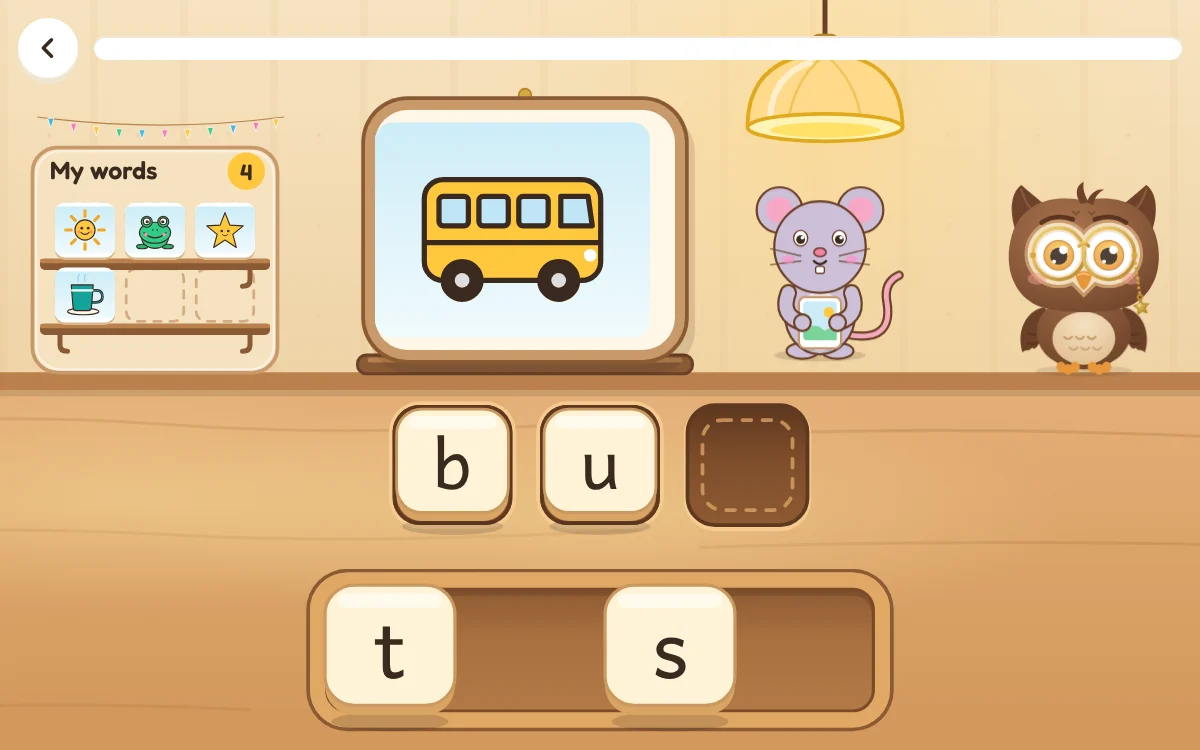
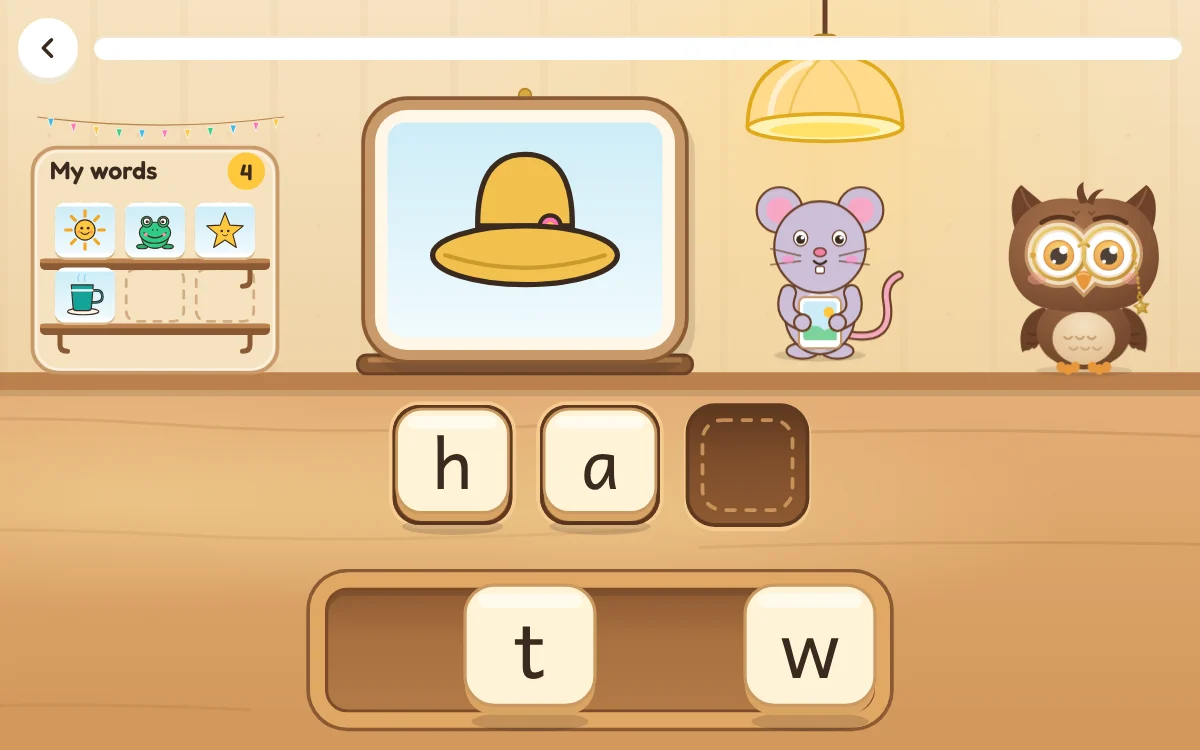
Sync Letter Workshop 7b99af9 (picture centered in its frame), log the fix

diff --git a/public/play/word-building-grade-1/assets/index-hgKHa2a3.css b/public/play/word-building-grade-1/assets/index-hgKHa2a3.css
@@ -1,0 +1,1 @@
+@font-face{font-family:Fredoka;font-style:normal;font-weight:600;font-display:swap;src:url(./fredoka-600-C4zohCW5.woff2)format("woff2")}@font-face{font-family:Andika;font-style:normal;font-weight:400;font-display:swap;src:url(./andika-400-BTFTIZb-.woff2)format("woff2")}:root{--ell-teal:#0f857d;--ell-teal-dark:#0a625c;--ell-teal-bright:#14a39a;--ell-teal-soft:#e3f6f3;--ell-sun:#ffc83d;--ell-sun-dark:#e5a800;--ell-leaf:#2fcb86;--ell-leaf-dark:#1fa56a;--ell-sky:#2fb5ec;--ell-pink:#ff6fb5;--ell-orange:#ff9f43;--ell-cocoa:#8b5a3c;--ell-caramel:#c8996a;--ell-ink:#3b2a20;--ell-ink-soft:#7a6252;--ell-cream:#fff7e8;--ell-card:#fff;--ell-line:#f0e6d2;--ell-hill:#bfefd5;--ell-r-sm:16px;--ell-r-md:24px;--ell-r-lg:32px;--ell-r-pill:999px;--ell-press:0 6px 0;--ell-shadow:0 10px 30px #3b2a201a;--ell-spring:cubic-bezier(.34, 1.56, .64, 1);--ell-font-display:"Fredoka", ui-rounded, "Arial Rounded MT Bold", system-ui, sans-serif;--ell-font-read:"Andika", system-ui, sans-serif}*{box-sizing:border-box}html,body{height:100%;margin:0}body{background:var(--ell-cream);color:var(--ell-ink);font-family:var(--ell-font-read);-webkit-tap-highlight-color:transparent;overscroll-behavior:none;-webkit-user-select:none;user-select:none}button{font:inherit;color:inherit;cursor:pointer;touch-action:manipulation}:focus-visible{outline:4px solid var(--ell-sky);outline-offset:3px}.ell-app{background:radial-gradient(circle at 15% 10%,#fffdf6 0,#fff3da 60%,#ffe9c2 100%);position:fixed;top:0;bottom:0;left:0;right:0;overflow:clip}.ell-app:after{content:"";background:var(--ell-hill);z-index:0;border-radius:50%;height:30vh;position:absolute;bottom:-14vh;left:-10%;right:-10%}.ell-screen{z-index:1;flex-direction:column;display:flex;position:absolute;top:0;bottom:0;left:0;right:0;overflow:clip}.ell-screen[hidden]{display:none}.ell-fx{pointer-events:none;z-index:5;position:absolute;top:0;bottom:0;left:0;right:0;overflow:clip}.ell-confetti{display:block;position:absolute}.ell-btn{border-radius:var(--ell-r-pill);min-height:64px;font:600 clamp(24px, 4.2vmin, 34px) var(--ell-font-display);transition:transform .25s var(--ell-spring), box-shadow .15s;border:0;padding:.55em 1.4em}.ell-btn:active{transform:translateY(4px)scale(.97)}.ell-btn--primary{background:var(--ell-teal);color:#fff;box-shadow:var(--ell-press) var(--ell-teal-dark)}.ell-btn--sun{background:var(--ell-sun);color:var(--ell-ink);box-shadow:var(--ell-press) var(--ell-sun-dark)}.ell-btn--plain{background:var(--ell-card);color:var(--ell-ink);box-shadow:var(--ell-press) var(--ell-line)}.ell-btn--primary:active,.ell-btn--sun:active,.ell-btn--plain:active{box-shadow:0 2px 0 var(--ell-line)}.ell-iconbtn{border-radius:var(--ell-r-pill);background:var(--ell-card);width:60px;height:60px;box-shadow:var(--ell-press) var(--ell-line);transition:transform .25s var(--ell-spring);border:0;flex:none;place-items:center;display:grid}.ell-iconbtn:active{box-shadow:0 2px 0 var(--ell-line);transform:translateY(4px)}.ell-iconbtn svg{width:28px;height:28px}.ell-start{text-align:center;justify-content:center;align-items:center;gap:clamp(12px,3vmin,28px);padding:24px}.ell-title{font:600 clamp(28px, 6vmin, 52px) var(--ell-font-display);color:var(--ell-teal);margin:0}.ell-top{align-items:center;gap:16px;padding:clamp(10px,2.4vmin,20px);display:flex}.ell-progress{background:var(--ell-card);border-radius:var(--ell-r-pill);height:24px;box-shadow:inset 0 2px 0 var(--ell-line);flex:1;padding:5px}.ell-progress>span{border-radius:var(--ell-r-pill);background:linear-gradient(90deg, var(--ell-leaf), #6be3a9);width:0;height:100%;transition:width .5s var(--ell-spring);display:block}.ell-stage{flex:1;justify-content:center;align-items:center;min-height:0;padding:0 16px;display:flex}.ell-card{background:var(--ell-card);border-radius:var(--ell-r-lg);box-shadow:var(--ell-shadow);text-align:center;min-width:min(80vw,320px);padding:clamp(14px,3vmin,28px) clamp(24px,5vmin,48px)}.ell-prompt{font:600 clamp(56px, 13vmin, 112px)/1 var(--ell-font-display);letter-spacing:.02em}.ell-dots{flex-wrap:wrap;justify-content:center;gap:clamp(10px,2.4vmin,22px);margin-top:clamp(8px,2vmin,16px);display:flex}.ell-dots>div{grid-template-columns:repeat(5,auto);gap:6px;display:grid}.ell-dots i{aspect-ratio:1;background:var(--ell-sky);border-radius:50%;width:clamp(12px,2.4vmin,20px);display:block}.ell-dots>div+div i{background:var(--ell-pink)}.ell-dots.is-hint i{animation:ell-dot-hint .6s var(--ell-spring) both}@keyframes ell-dot-hint{50%{transform:scale(1.35)}}.ell-bottom{justify-content:center;align-items:flex-end;gap:clamp(12px,3vmin,32px);padding:8px 16px clamp(16px,4vmin,40px);display:flex}.ell-helper{align-items:flex-end;display:flex;position:relative}.ell-bubble{white-space:nowrap;background:var(--ell-card);border-radius:var(--ell-r-md);box-shadow:var(--ell-shadow);font:600 clamp(18px, 3.2vmin, 26px) var(--ell-font-display);color:var(--ell-teal);opacity:0;transition:opacity .2s, transform .3s var(--ell-spring);padding:8px 16px;position:absolute;bottom:92%;left:70%;transform:translateY(6px)scale(.9)}.ell-bubble.is-on{opacity:1;transform:none}.ell-choices{gap:clamp(12px,2.6vmin,22px);display:flex}.ell-choice{border-radius:var(--ell-r-md);background:var(--ell-card);width:clamp(88px,16vmin,132px);height:clamp(84px,15vmin,120px);box-shadow:var(--ell-press) var(--ell-line), 0 12px 20px #3b2a2014;font:600 clamp(40px, 8vmin, 64px) var(--ell-font-display);transition:transform .25s var(--ell-spring), opacity .2s;border:0}.ell-choice:active{transform:translateY(4px)}.ell-choice.is-right{background:var(--ell-leaf);color:#fff;box-shadow:var(--ell-press) var(--ell-leaf-dark)}.ell-choice.is-tried{opacity:.4}.ell-choice:disabled{cursor:default}.ell-end{text-align:center;justify-content:center;align-items:center;gap:clamp(8px,2vmin,18px);padding:24px}.ell-stars{align-items:flex-end;gap:10px;display:flex}.ell-stars svg{width:clamp(64px,12vmin,96px);filter:drop-shadow(0 5px 0 var(--ell-sun-dark))}.ell-stars svg:nth-child(2){transform:translateY(-14%)scale(1.15)}.ell-stars .is-empty{filter:none;opacity:.35}.ell-end-actions{flex-wrap:wrap;justify-content:center;gap:16px;display:flex}@media (orientation:portrait){.ell-bottom{flex-direction:column;align-items:center}.ell-helper{align-self:flex-start;margin-left:4vw}}.ell-hazel{flex:none}.ell-hazel svg{width:100%;height:auto;display:block;overflow:visible}.ell-hazel--sm{width:clamp(84px,16vmin,140px)}.ell-hazel--md{width:clamp(110px,22vmin,190px)}.ell-hazel--lg{width:clamp(150px,36vmin,280px)}.ell-hazel .part,.ell-hazel #eyes-happy{transition:transform .35s var(--ell-spring), opacity .2s}.ell-hazel #body-group{animation:3s ease-in-out infinite ell-breathe}.ell-hazel #eye-left,.ell-hazel #eye-right{animation:4.6s infinite ell-blink}.ell-hazel #charm{animation:2.6s ease-in-out infinite ell-sway}.ell-hazel #tuft-right{animation:5.2s ease-in-out infinite ell-wiggle}@keyframes ell-breathe{50%{transform:scale(1.02,.985)}}@keyframes ell-blink{0%,92%,to{transform:scaleY(1)}95%{transform:scaleY(.08)}}@keyframes ell-sway{50%{transform:rotate(-9deg)}}@keyframes ell-wiggle{0%,80%,to{transform:rotate(0)}85%{transform:rotate(-12deg)}90%{transform:rotate(6deg)}}.ell-hazel.is-happy #eye-left,.ell-hazel.is-happy #eye-right{opacity:0}.ell-hazel.is-happy #eyes-happy{opacity:1}.ell-hazel.is-happy #wing-left{transform:rotate(55deg)}.ell-hazel.is-happy #wing-right{transform:rotate(-55deg)}.ell-hazel.is-happy #hazel{transform:translateY(-8%)}.ell-hazel.is-happy #brow-left,.ell-hazel.is-happy #brow-right{transform:translateY(-5px)}.ell-hazel.is-cheer #eye-left,.ell-hazel.is-cheer #eye-right{opacity:0}.ell-hazel.is-cheer #eyes-happy{opacity:1}.ell-hazel.is-cheer #wing-left{animation:.5s ease-in-out infinite alternate ell-flap-l}.ell-hazel.is-cheer #wing-right{animation:.5s ease-in-out infinite alternate ell-flap-r}.ell-hazel.is-cheer #hazel{animation:ell-hop .9s var(--ell-spring) infinite}@keyframes ell-flap-l{0%{transform:rotate(30deg)}to{transform:rotate(75deg)}}@keyframes ell-flap-r{0%{transform:rotate(-30deg)}to{transform:rotate(-75deg)}}@keyframes ell-hop{0%,to{transform:translateY(0)}40%{transform:translateY(-9%)}}.ell-hazel.is-thinking #head{transform:rotate(-8deg)}.ell-hazel.is-thinking .look{transform:translate(-4px,-6px)}.ell-hazel.is-thinking #brow-left{transform:translateY(-6px)rotate(-6deg)}.ell-hazel.is-thinking #glasses{transform:translateY(-3px)}.ell-hazel.is-nudge #head{transform:rotate(6deg)translateY(3px)}.ell-hazel.is-nudge #brow-left{transform:rotate(8deg)}.ell-hazel.is-nudge #brow-right{transform:rotate(-8deg)}.ell-hazel.is-nudge #wing-left{transform:rotate(20deg)}.ell-hazel.is-talking #beak-lower{animation:.3s ease-in-out infinite alternate ell-talk}@keyframes ell-talk{to{transform:translateY(6px)}}.ell-reduced .ell-hazel *,.ell-reduced .ell-hazel{animation:none!important}@media (prefers-reduced-motion:reduce){.ell-hazel,.ell-hazel *{animation:none!important}}.ell-slot .ell-stage,.ell-slot .ell-bottom{display:none}.ell-slot .ell-top{z-index:3;position:relative}.ell-slot-view{touch-action:none;background:var(--ell-slot-bg,#f6e7cf);position:absolute;top:0;bottom:0;left:0;right:0;overflow:clip}.ell-slot-scene{transform-origin:0 0;width:960px;height:600px;font-family:var(--ell-font-display);position:absolute;top:0;left:0}.ell-slot-defs{width:0;height:0;position:absolute;overflow:hidden}.ell-slot-backdrop,.ell-slot-board{position:absolute;top:0;bottom:0;left:0;right:0}.ell-slot-backdrop>svg{width:100%;height:100%;display:block;overflow:visible}.ell-sr{clip:rect(0 0 0 0);white-space:nowrap;width:1px;height:1px;position:absolute;overflow:hidden}.ell-slot-board button{font:inherit;color:inherit;background:0 0;border:0;padding:0;position:absolute}.ell-slot-board button:focus-visible{outline:5px solid var(--ell-teal);outline-offset:4px;border-radius:22px}.ell-slot-pic{cursor:pointer;background:#fff;border-radius:26px;width:240px;height:192px;padding:10px;transition:box-shadow .2s;top:88px;left:300px;box-shadow:0 8px #e6cfa8,0 14px 24px #3b2a201f}.ell-slot-pic>svg{width:220px;height:172px;display:block;overflow:visible}.ell-slot-board .ell-slot-pic{padding:10px}.ell-slot-pic.is-look{box-shadow:0 8px 0 #e6cfa8, 0 0 0 8px var(--ell-sun)}.ell-slot-friend{pointer-events:none;width:170px;height:160px;position:absolute;top:140px;left:552px}.ell-slot-friend svg{width:100%;height:100%;overflow:visible}.ell-slot-cell,.ell-tile{width:104px;height:104px}.ell-slot-cell>svg,.ell-tile>svg,.ell-slot-ghost-in>svg{width:100%;height:100%;position:absolute;top:0;bottom:0;left:0;right:0}.ell-slot-cell>b,.ell-tile>b,.ell-slot-ghost-in>b{text-align:center;font:400 64px/80px var(--ell-font-read);color:var(--ell-ink);pointer-events:none;position:absolute;top:8px;left:0;right:0}.ell-slot-cell{cursor:pointer;transition:filter .2s}.ell-slot-cell.is-given>b{color:var(--ell-teal-dark)}.ell-slot-cell.is-cursor{filter:drop-shadow(0 0 8px var(--ell-sun)) drop-shadow(0 0 3px var(--ell-sun))}.ell-slot-cell.is-cursor>svg{animation:1.4s ease-in-out infinite ell-slot-breathe}.ell-slot-cell.is-lit{filter:drop-shadow(0 0 10px var(--ell-sun)) drop-shadow(0 0 4px #fff)}.ell-slot-cell.is-lit>b{color:var(--ell-teal)}@keyframes ell-slot-breathe{50%{opacity:.55}}.ell-slot-tray{background:#8b5a3c29;border-radius:30px;height:124px;position:absolute}.ell-tile{cursor:grab;transition:transform .25s var(--ell-spring), opacity .15s, filter .2s}.ell-tile.is-used{opacity:0;pointer-events:none}.ell-tile.is-picked{filter:drop-shadow(0 0 8px var(--ell-sun));transform:translateY(-16px)scale(1.06)}.ell-tile.is-help{filter:drop-shadow(0 0 7px #7fe0af)drop-shadow(0 0 2px #2fcb86)}.ell-tile.is-help.is-picked{filter:drop-shadow(0 0 8px var(--ell-sun))}.ell-slot-pill{text-align:center;width:300px;color:var(--ell-ink);pointer-events:none;background:#fff;border-radius:16px;padding:4px 0;font-size:19px;transition:opacity .3s;position:absolute;top:286px;left:330px}.ell-slot-pill.is-off{opacity:0}.ell-slot-ghost{will-change:transform;z-index:6;position:absolute;top:0;left:0}.ell-slot-ghost-in{display:block;position:absolute;top:0;bottom:0;left:0;right:0}.ell-slot-ghost-in>b{line-height:1.25;top:7.7%}.ell-slot-ghost.is-lifted{filter:drop-shadow(0 10px 8px #3b2a2040)}.ell-slot-flycard{background:#fff;border-radius:12px;box-shadow:0 6px 14px #3b2a2033}.ell-slot-flycard>svg{width:100%;height:100%}.ell-slot-wall{pointer-events:none;width:200px;height:184px;position:absolute;top:116px;left:24px}.ell-slot-wall[hidden]{display:none}.ell-slot-wall>svg{width:100%;height:100%;position:absolute;top:0;bottom:0;left:0;right:0}.ell-slot-wall-title{color:var(--ell-ink);font-size:20px;position:absolute;top:8px;left:16px}.ell-slot-wall-n{background:var(--ell-sun);text-align:center;min-width:30px;height:30px;color:var(--ell-ink);border-radius:15px;padding:0 6px;font-size:18px;line-height:30px;position:absolute;top:6px;right:12px}.ell-slot-wall-n:empty{display:none}.ell-slot-thumbs{grid-template-columns:repeat(3,48px);gap:8px;width:160px;display:grid;position:absolute;top:46px;left:20px}.ell-slot-thumb{background:#fff;border-radius:8px;width:48px;height:44px;display:block;box-shadow:0 2px #d9b98c}.ell-slot-thumb>svg{width:100%;height:100%}.ell-slot .ell-slot-helper{z-index:2;width:150px;position:absolute}.ell-slot .ell-slot-helper .ell-hazel--sm{width:150px}.ell-slot .ell-bubble{font-size:22px;bottom:86%;left:auto;right:62%}.ell-slot-help{cursor:pointer;background:0 0;border:0;border-radius:50%;position:absolute;top:0;bottom:0;left:0;right:0}.ell-slot-help:focus-visible{outline:5px solid var(--ell-teal);outline-offset:2px}.ell-slot .ell-hazel.is-point #wing-left{transform:rotate(70deg)}.ell-slot-endwall{text-align:center}.ell-slot-endrow{flex-wrap:wrap;justify-content:center;gap:10px;max-width:92vw;display:flex}.ell-slot-card{background:#fff;border-radius:14px;flex-direction:column;align-items:center;width:92px;padding:6px 4px 4px;display:flex;position:relative;box-shadow:0 4px #e6cfa8}.ell-slot-card>svg{width:80px;height:62px}.ell-slot-card>b{font:400 22px/1.2 var(--ell-font-read);color:var(--ell-ink)}.ell-slot-card.is-new:after{content:"";background:var(--ell-sun);clip-path:polygon(50% 0,62% 38%,100% 50%,62% 62%,50% 100%,38% 62%,0 50%,38% 38%);width:22px;height:22px;position:absolute;top:-6px;right:-6px}.ell-slot-endline{font:600 clamp(18px, 3vmin, 24px) var(--ell-font-display);color:var(--ell-teal);margin:6px 0 0}.ell-reduced .ell-tile{transition:opacity .15s,filter .2s}.ell-reduced .ell-tile.is-picked{outline:4px solid var(--ell-sun);border-radius:20px;transform:none}.ell-reduced .ell-slot-cell.is-cursor>svg{animation:none}@media (prefers-reduced-motion:reduce){.ell-tile{transition:opacity .15s,filter .2s}.ell-tile.is-picked{outline:4px solid var(--ell-sun);border-radius:20px;transform:none}.ell-slot-cell.is-cursor>svg{animation:none}}.ell-slot-rotate{display:none}@media (orientation:portrait) and (max-width:700px){.ell-slot-rotate{z-index:9;text-align:center;background:var(--ell-cream,#fff7e8);font:600 26px var(--ell-font-display);color:var(--ell-ink,#3b2a20);justify-content:center;align-items:center;padding:24px;display:flex;position:absolute;top:0;bottom:0;left:0;right:0}}.ell-slot{--ell-slot-bg:#ebcb98}.ell-slot-board .ell-slot-pic{background:#fff7e8;box-shadow:0 0 0 8px #c8996a,0 0 0 11px #8a5a35,5px 9px 0 11px #3b2a2024}.ell-slot-board .ell-slot-pic.is-look{box-shadow:0 0 0 8px #c8996a, 0 0 0 11px #8a5a35, 0 0 0 19px var(--ell-sun)}.ell-slot-friend{width:200px;height:190px;top:112px;left:556px}.ell-slot-friend>svg{transform-origin:50% 100%;animation:2.8s ease-in-out infinite lw-bob}@keyframes lw-bob{0%,to{transform:translateY(0)}50%{transform:translateY(-5px)}}.ell-slot-tray{box-sizing:border-box;background:linear-gradient(#8e5a33,#a8703f 40%,#b27a47);border:12px solid #e0a765;box-shadow:0 0 0 3px #8a5a35,inset 0 0 0 2.5px #7a4a28,inset 0 4px 0 2.5px #5e382059}.ell-slot-board .ell-slot-cell.is-filled:before{content:"";background:linear-gradient(#5e3820,#7e4d2b 45%,#8e5a33);border-radius:22px;position:absolute;top:4px;bottom:4px;left:4px;right:4px;box-shadow:0 0 0 3px #f6cd92e6,inset 0 0 0 3px #5e3820}.ell-slot-cell.is-filled>svg{transform:scale(.86)}.ell-slot-cell.is-filled>b{transform-origin:50% 44px;transform:scale(.86)}.ell-slot-cell.is-cursor>svg rect:nth-of-type(3){stroke:#ffd45c;stroke-width:5px}.ell-slot-cell.is-cursor>svg rect:nth-of-type(4){fill:#ffd45c;fill-opacity:.16;stroke:#ffe9a0;opacity:1}.ell-slot-cell.is-lit>svg rect:nth-of-type(2){fill:#fff1a8;stroke:#2fcb86;stroke-width:4px}.ell-slot-cell.is-lit>svg rect:first-of-type{fill:#e5b230}.ell-slot-ghost.is-lifted rect:nth-of-type(2),.ell-tile.is-picked>svg rect:nth-of-type(2){fill:#fffaea}.ell-slot-thumb{overflow:hidden}.ell-reduced .ell-slot-friend>svg{animation:none}@media (prefers-reduced-motion:reduce){.ell-slot-friend>svg{animation:none}}

diff --git a/public/play/word-building-grade-1/index.html b/public/play/word-building-grade-1/index.html
@@ -7,8 +7,8 @@
   <meta name="robots" content="noindex">
   <meta name="theme-color" content="#8A5A35">
   <title>Letter Workshop</title>
-  <script type="module" crossorigin src="./assets/index-BlXHCf2s.js"></script>
-  <link rel="stylesheet" crossorigin href="./assets/index-BGvxBwU0.css">
+  <script type="module" crossorigin src="./assets/index-jqRBn6N2.js"></script>
+  <link rel="stylesheet" crossorigin href="./assets/index-hgKHa2a3.css">
 </head>
 <body>
   <main id="app"></main>

diff --git a/planning/word-building-decisions-log.md b/planning/word-building-decisions-log.md
@@ -67,3 +67,7 @@ Owner accepted all defaults of the pitch and asked for an unattended build. Each
     that need `/play/word-building-grade-1/` print `SKIPPED: game build not synced` lines and a final count, and the 404s
     for the missing build are counted and reported, not hidden among errors. After the sync they run with no edits. Easy.
 22. **Still not built**: the parent "My word wall" page (entry 3). The store already has what it needs.
+7. **Picture off-centre in its frame (owner report, 2026-11-15), fixed.** Cause: the kit's `.ell-slot-board button { padding: 0 }` beat
+   `.ell-slot-pic { padding: 10px }`, so the picture sat flush left in its frame. Fixed in the kit (commit `464ef27`, one rule, 172 tests
+   still pass), the game is re-pinned to it (game `7b99af9`, 141 of 141 checks) and the poster was rebuilt. Measured before and after:
+   picture left edge 300 px, now 310 px, so 10 px of cream mat on every side.
